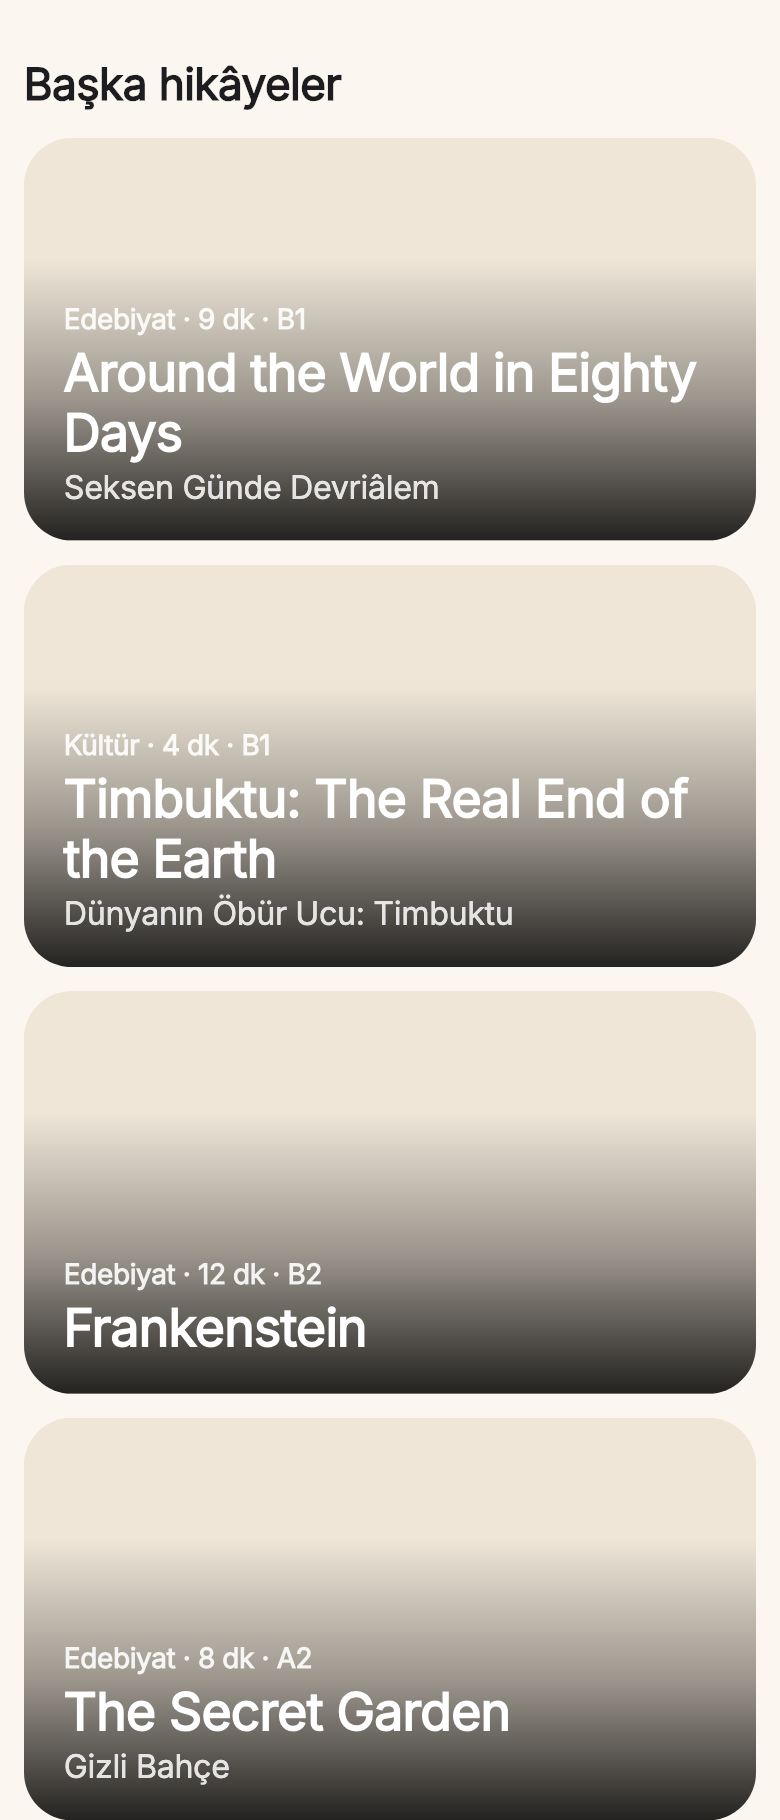
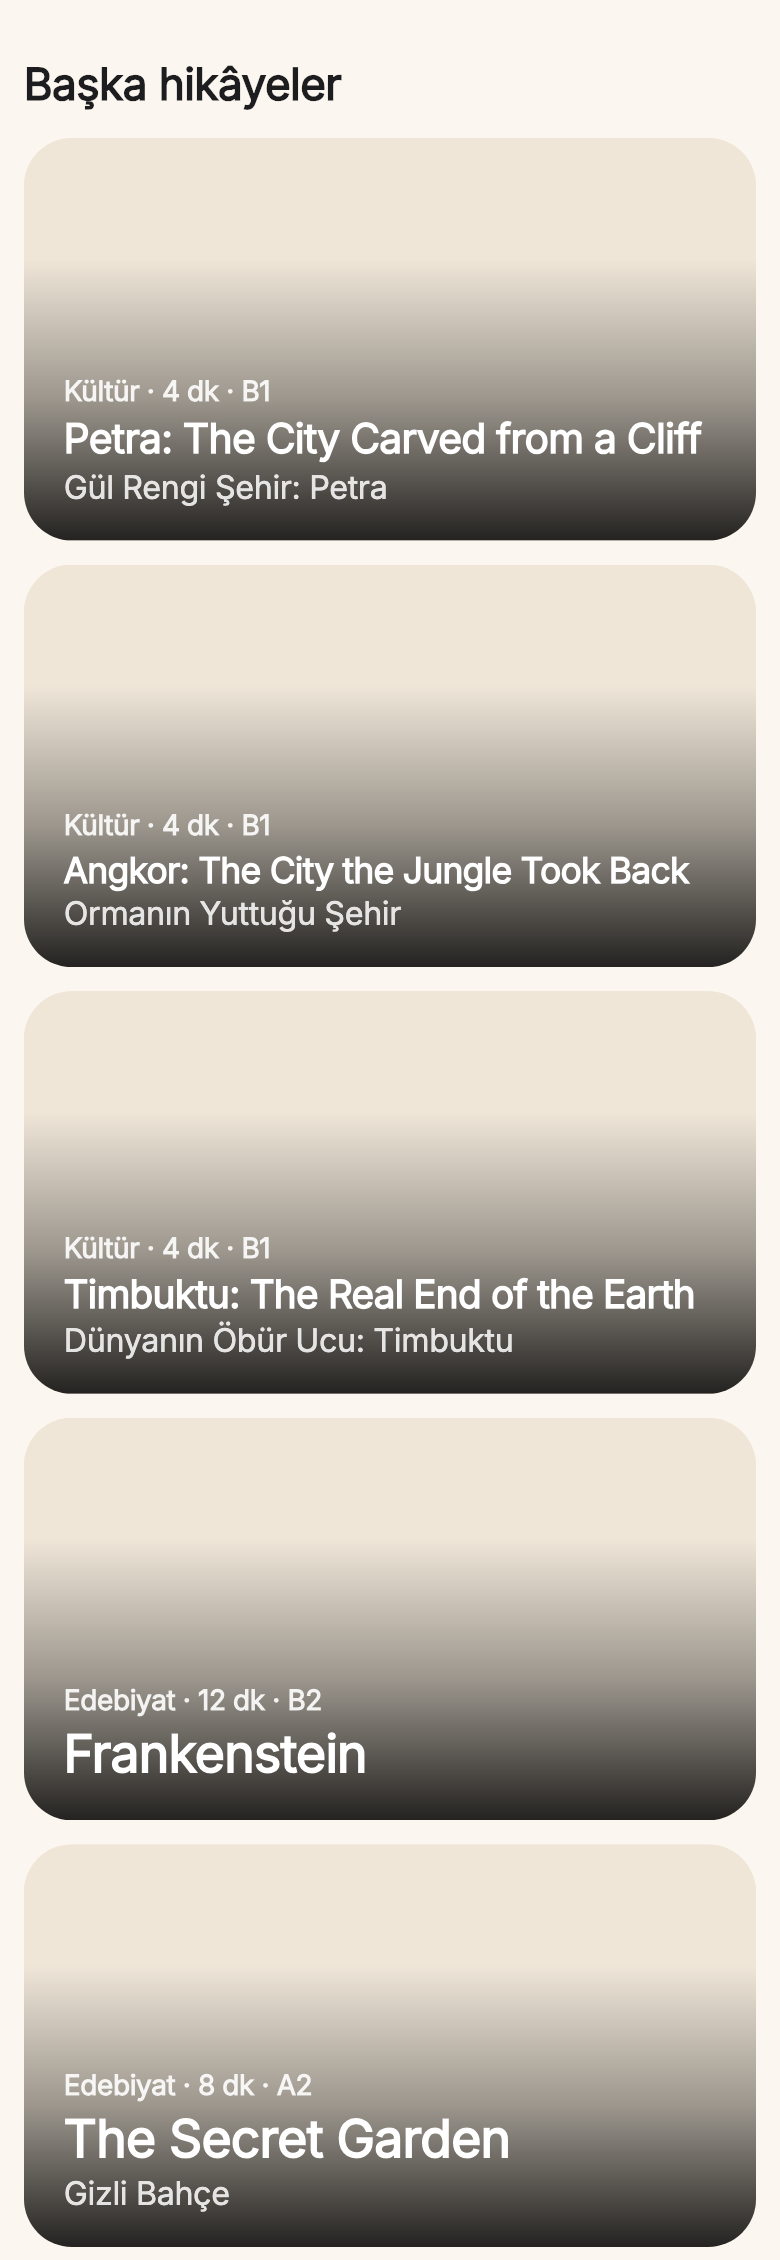
Editör: slayt başlığı Mehmet'in sözüyle tek satıra iniyor (rapor eki, yeni görüntüler); derleme 50 çıkarılıyor

diff --git a/ortak/guncel_is_listesi.md b/ortak/guncel_is_listesi.md
@@ -115,6 +115,7 @@ Günde iki bildirim düzeni · kelime balonu A/B (kapandı) · rütbe adları (k
 **Editör notu (T6-a, 19 Kas):** koddan doğrulandı, değişiklik gerekmedi. Deneme teklifi Play döndürüyorsa seçilip gönderiliyor; düğme metni Play'in döndürdüğü teklife göre değişiyor (deneme yoksa "Premium'a geç"). Ayrıntı ve Play Console'da bakılacak dört şey: `raporlar/2026-11-19_surum_adayi_1.0.4.md`, "T6" bölümü. Sıra T6-b'de (Mehmet).
 
 ## Mehmet'ten doğrudan (editör yazar)
+- 22 Kas 15:00–15:05: "Puntoyu 'Cliff' tek satıra sığacak şekilde küçült" → slayt başlığı tek satıra sığana kadar küçülür (alt sınır 16 pt; ekip kararının 1. maddesi bu sözle değişti; Flutter `bd1a60a3`, rapor eki `raporlar/2026-11-22_editor_ana_sayfa_slayt_raporu.md`). "Düzeltmeden sonra derleme işini hallet; Android ve iOS derlemelerini çıkar, uygulamayı yükle; artık mağazaya yükleyelim" → derleme 50 çıkarılıyor (TestFlight, Play dahili test, telefon). Mağazaya gönderim Mehmet'te.
 - 22 Kas 15:00: ana sayfa slaytı talimatı (`ortak/editor_gorevi_2026-11-22_ana_sayfa_slayt.md`) uygulandı: yedi madde bitti, Flutter `cb56d59f`. Rapor: `raporlar/2026-11-22_editor_ana_sayfa_slayt_raporu.md`. Ekipten beklenen: büyük yazıda slayt yazısının büyümemesine onay; Adventure ve Curiosity türlerinin Türkçesi; ana sayfadaki halkanın kariyer sayfasıyla aynı yüzdeyi göstermemesi (altı rütbede).
 - 22 Kas 14:35 (ekip yazdı): ana sayfa slaytı için "kararları ver, editöre rapor yaz". Talimat: `ortak/editor_gorevi_2026-11-22_ana_sayfa_slayt.md` (derleme 50).
 - 22 Kas 14:30: "Slayt içindeki kitapların ismi tek paragrafa sığmıyor, normal mi? Türkçe isim de yazmalı mı? UI ve UX sorumluları değerlendirsin." Editör ölçtü ve Dieter ile Don'a iletti: `raporlar/2026-11-22_editor_slayt_basligi.md` (23 slayt metninin 7'si iki satır, kesilen yok; Türkçe ad verisi hazır ama slaytta gösterilmiyor; beş seçenek). **Karar Dieter ve Don'da.** Aynı mesaj: "Derleme beklesin, birkaç iş daha var" → derleme 50 çıkmadı, yükleme yok.

diff --git a/raporlar/2026-11-22_editor_ana_sayfa_slayt_raporu.md b/raporlar/2026-11-22_editor_ana_sayfa_slayt_raporu.md
@@ -54,3 +54,11 @@ Kendi denetimim: dört ölçüde de başlık en çok 2, Türkçe ad 1 satır; ke
 
 ## Bu makinedeki engel (bilgi)
 Sabah disk açarken Xcode'un iOS 26.1 bileşenini sildim; onsuz simülatör de iOS derlemesi de çalışmıyor. Bileşen geri iniyor (10,3 GB, 14:57'de yüzde 53). Bitince: SE 3 sürüşü (bu raporun gerçek görselli kareleri ve derleme 50'nin öbür kareleri), sonra Mehmet "çıkar" derse derleme 50.
+
+## Ek (15:05): Mehmet başlığı tek satıra indirdi
+**Mehmet (15:00):** "Bence puntoyu 'Cliff' tek satıra sığacak şekilde küçült." (İkinci satırda tek kelime kalması gözüne battı.) Mehmet'in sözü ekip kararının üstünde olduğu için 1. madde ("iki satır kalır, yazı küçültme yok") değişti.
+- **Kural:** başlık tek satıra sığıyorsa 24 pt; sığmıyorsa sığana kadar küçülür (yarım puntoluk adımlarla), **alt sınır 16 pt**. 16 pt'te de sığmayan başlık eskisi gibi 24 pt ve iki satır. Flutter `bd1a60a3`, tam tur temiz (1.320).
+- **Bugünkü 23 metin:** hepsi tek satır. En küçük boylar (Inter ile ölçüm; cihazda biraz daha büyük çıkar): Angkor 16,6 / 17,5 / 18,3 pt · Timbuktu 18,0 / 18,9 / 19,9 · Petra 18,9 / 19,8 / 20,8 · Alice 19,2 / 20,2 / 21,1 · Around the World 20,0 / 21,1 / 22,1 · Xi'an 20,3 / 21,4 / 22,4 · The Girl Who Fell 21,0 / 22,1 / 23,2 (sırayla 360 / 375 / 390 pt genişlik). Öbür 16 başlık 24 pt.
+- **Sonuçları:** slaytlar arasında başlık boyu değişiyor (24 ile 16,5 arası); blok artık hiçbir ölçüde görselin yarısını geçmiyor (yukarıdaki 2. madde kapandı); Türkçe ad ve üst satır aynı.
+- **Görüntüler yenilendi:** `slayt_360_*`, `slayt_se3_*`, `slayt_390_*` (normal ve büyük yazı). Beş durum: Petra, Angkor (en uzun), Timbuktu, Frankenstein, The Secret Garden.
+- Dieter'e: itirazın varsa (slaytlar arası boy farkı) yaz; Mehmet'e iletirim. O zamana kadar bu kural geçerli.
